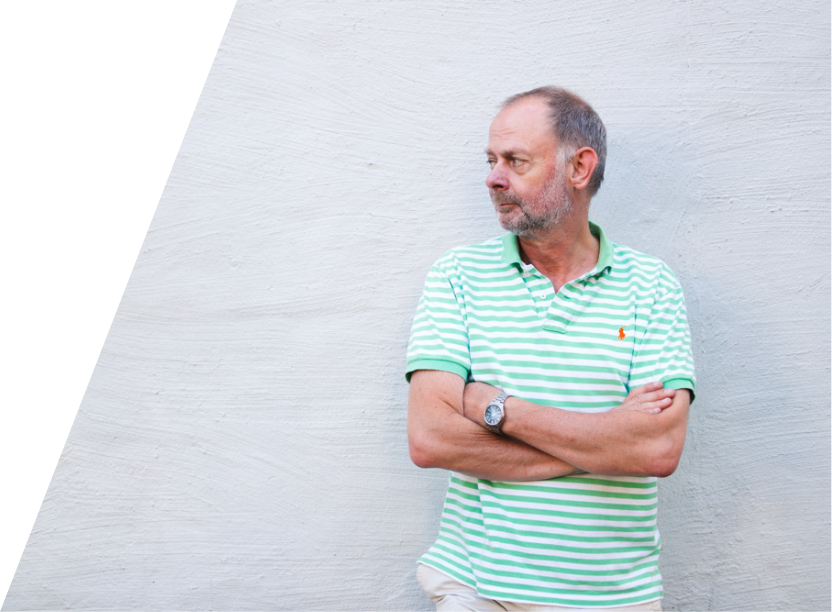
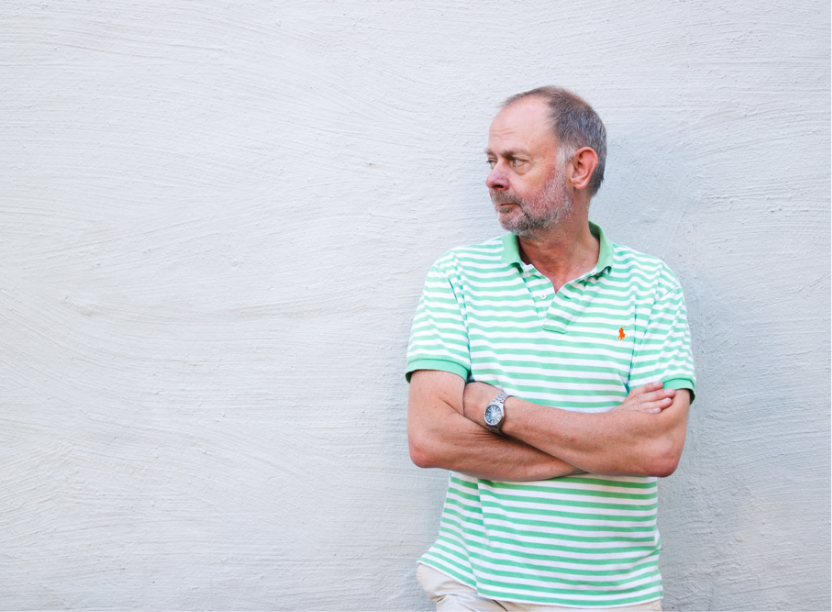
Mobile changes

Changed region(s): [[0.0, 0.0, 0.2812, 0.9935]]

diff --git a/src/components/Main.vue b/src/components/Main.vue
@@ -1,23 +1,21 @@
 <template>
   <div class="main">
-    <div class="bg-gradient-cyan-to-turquoise grid-lt py-24 items-center">
-      <div class="flex flex-col gc-2">
-        <h1 class="font-heading font-bold text-4xl lg:text-6xl text-darkcyan mb-8">
-          Vill du ha professionell hjälp med texter?
-        </h1>
-        <p class="font-body text-base lg:text-lg text-darkcyan">
-          Jag heter Pelle och jag gillar att vränga ord, hitta rätt ord och att sätta ihop ord
-          till bra texter, tydlig information och säljande budskap.
-        </p>
-      </div>
+    <div class="bg-gradient-cyan-to-turquoise grid-rows-auto grid-lt py-12 lg:py-24 items-center">
+      <h1 class="hero__header font-heading font-bold text-4xl lg:text-6xl text-darkcyan mb-8">
+        Vill du ha professionell hjälp med texter?
+      </h1>
+      <p class="hero__paragraph font-body text-base lg:text-lg text-darkcyan pr-8 lg:pr-0">
+        Jag heter Pelle och jag gillar att vränga ord, hitta rätt ord och att sätta ihop ord
+        till bra texter, tydlig information och säljande budskap.
+      </p>
       <img
         src="@/assets/images/typewriter.svg"
-        class="pl-24 h-full gc-3"
+        class="hero__image lg:pl-24 h-full"
         alt="typewriter"
       >
     </div>
     <div class="grid-lt items-center">
-      <div class="flex flex-col gc-2 py-3">
+      <div class="flex flex-col who__text py-12 lg:py-24">
         <h1 class="font-heading font-bold text-2xl lg:text-4xl text-darkcyan mb-8">
           Vem är jag?
         </h1>
@@ -28,58 +26,59 @@
         </p>
       </div>
       <img
-        src="@/assets/images/pelle.png"
-        class="p-4 gc-3-e"
+        :src="isMobile ? require('@/assets/images/pelle.png')
+          : require('@/assets/images/pelle-slanted.png')"
+        class="p-3 lg:p-4 who__image"
         alt="pelle"
       >
     </div>
-    <div class="bg-pink grid-rt items-center py-24">
-      <div class="gc-2 flex flex-col pr-48">
-        <div class="flex">
+    <div class="bg-pink grid-rt items-center py-12 lg:py-24">
+      <div class="what__image flex flex-col pr-8 md:pr-12 lg:pr-24 max-w-xs">
+        <div class="flex flex-col lg:flex-row items-center">
           <img
             src="@/assets/images/presentation.svg"
-            class="w-2/5 m-6 pl-6"
+            class="w-20 lg:w-2/5 lg:m-6 pl-6"
             alt="presentation"
           >
           <img
             src="@/assets/images/palm.svg"
-            class="w-2/5 m-6 pt-8"
+            class="w-20 lg:w-2/5 lg:m-6 pr-4 lg:pr-0 pt-8"
             alt="palm"
           >
         </div>
-        <div class="flex">
+        <div class="flex flex-col lg:flex-row pt-8 lg:pt-0 items-center">
           <img
             src="@/assets/images/press.svg"
-            class="w-2/5 m-6 pb-10"
+            class="w-20 lg:w-2/5 lg:m-6 pb-8 lg:pb-10 px-2 lg:px-0"
             alt="press"
           >
           <img
             src="@/assets/images/book.svg"
-            class="w-2/5 m-6 pr-4"
+            class="w-20 lg:w-2/5 lg:m-6 pr-4"
             alt="book"
           >
         </div>
       </div>
-      <div class="flex flex-col gc-3 py-3">
-        <h1 class="font-heading font-bold text-2xl lg:text-4xl text-darkpurple mb-8">
-          Vad kan jag skriva?
-        </h1>
-        <p class="font-body text-base lg:text-lg text-darkerpurple">
-          Ja, egentligen allt! Jag är en lyhörd skribent, och jag lyssnar på dig, vad du vill ha och
-          hjälper dig att uppnå ditt mål. Det kan handla om allt ifrån researtiklar,
-          företagspresentationer och texter till webbplatser till annonser, pressreleaser och
-          nyhetsbrev eller att korrekturläsa en bok. Jag har Öhrnkoll på ord helt enkelt!
-        </p>
-      </div>
+      <h1 class="what__header font-heading font-bold text-2xl lg:text-4xl text-darkpurple mb-8">
+        Vad kan jag skriva?
+      </h1>
+      <p class="what__paragraph font-body text-base lg:text-lg text-darkerpurple">
+        Ja, egentligen allt! Jag är en lyhörd skribent, och jag lyssnar på dig, vad du vill ha och
+        hjälper dig att uppnå ditt mål. Det kan handla om allt ifrån researtiklar,
+        företagspresentationer och texter till webbplatser till annonser, pressreleaser och
+        nyhetsbrev eller att korrekturläsa en bok. Jag har Öhrnkoll på ord helt enkelt!
+      </p>
     </div>
-    <div class="border-b-4 border-darkcyan grid-lt py-24 items-start">
-      <div class="flex flex-col gc-2  pr-24">
+
+    <div class="border-b-4 border-darkcyan grid-lt py-12 lg:py-24 items-start">
+      <div class="contact__text flex flex-col md:pr-12 lg:pr-24">
         <h1 class="font-heading font-bold text-2xl lg:text-4xl text-darkcyan mb-8">
           Hur når du mig?
         </h1>
         <p class="font-body text-base lg:text-lg text-darkcyan">
-          I formuläret här bredvid kan du skriva ett meddelande till mig, så hör
-          jag av mig inom kort. Du kan också skicka ett mail eller slå en signal.
+          I formuläret här {{ isMobile ? 'nedanför' : 'bredvid' }}
+          kan du skriva ett meddelande till mig, så hör jag av mig
+          inom kort. Du kan också skicka ett mail eller slå en signal.
           <br>Pelle Öhrn
           <br><span id="js-contact-phone" />
           <br><span id="js-contact-email" />
@@ -88,12 +87,12 @@
 
       <form
         id="js-contact-form"
-        class="w-full max-w-lg gc-3 flex flex-col items-center"
+        class="contact__form w-full lg:max-w-lg flex flex-col items-center mt-8 lg:mt-0"
         :action="`//formspree.io/${mail}`"
         method="POST"
       >
-        <div class="flex flex-wrap -mx-3 mb-6">
-          <div class="w-full md:w-1/2 px-3 mb-6 md:mb-0">
+        <div class="flex flex-wrap -mx-3 mb-6 w-full">
+          <div class="w-full md:w-1/2 mb-6 md:mb-0 md:pr-2 lg:pr-3">
             <label
               class="block tracking-wide font-body text-darkcyan text-sm font-bold mb-2"
               for="name"
@@ -110,7 +109,7 @@
               required
             >
           </div>
-          <div class="w-full md:w-1/2 px-3">
+          <div class="w-full md:w-1/2 md:pl-2 lg:pl-3">
             <label
               class="block tracking-wide font-body text-darkcyan text-sm font-bold mb-2"
               for="email"
@@ -140,7 +139,7 @@
               id="message"
               :class="['font-body appearance-none block w-full text-darkcyan border-2',
                        'border-gray-300 rounded py-3 px-4 mb-3 leading-tight focus:outline-none',
-                       'focus:border-turquoise trans']"
+                       'focus:border-turquoise trans h-40 lg:h-auto']"
               type="password"
               placeholder="Hej! Ses över en kopp kaffe?"
               required
@@ -191,7 +190,7 @@
         </div>
       </div>
       <p
-        :class="['font-body text-sm md:text-base text-gray-600 italic w-2/5',
+        :class="['font-body text-sm md:text-base text-gray-600 italic w-4/5 lg:w-2/5',
                  'max-w-5xl m-auto text-center pt-16']"
       >
         Idag är jag med i BolagsBolaget som tar hand om sociala avgifter,
@@ -201,7 +200,7 @@
         och fakturerar sen månadsvis eller ett engångsbelopp.
       </p>
       <p
-        :class="['font-body text-sm md:text-base text-gray-600 italic w-2/5',
+        :class="['font-body text-sm md:text-base text-gray-600 italic w-4/5 w-2/5',
                  'max-w-5xl m-auto text-center py-10']"
       >
         Ikoner CC-BY av The Noun Project: David (palm), Ladalle CS (press), monkik (bok)
@@ -219,19 +218,29 @@ export default {
       msg: 'Välkommen till Pelles sida',
       email: `${'skri'}${'v@'}pelleohrn.se`,
       phone: `${'076-833'}${' 64'} 41`,
+      windowWidth: window.innerWidth,
+      mediumBreakpoint: '768',
     };
+  },
+  computed: {
+    isMobile() {
+      return this.windowWidth < this.mediumBreakpoint;
+    },
   },
   mounted() {
     const contactForm = document.getElementById('js-contact-form');
     contactForm.setAttribute('action', this.email);
     document.getElementById('js-contact-phone').innerHTML = this.email;
     document.getElementById('js-contact-email').innerHTML = this.phone;
+    window.onresize = () => {
+      this.windowWidth = window.innerWidth;
+    };
   },
 };
 </script>
 
 <style scoped>
-@import url('https://fonts.googleapis.com/css?family=Merriweather+Sans:400,700,800|Open+Sans|Gochi+Hand&display=swap');
+@import url('https://fonts.googleapis.com/css?family=Merriweather+Sans:400,700,800|Open+Sans&display=swap');
 
 .bg-gradient-cyan-to-turquoise {
   background: linear-gradient(285deg, #A4E9D7, #73CFD4);
@@ -251,6 +260,10 @@ export default {
   grid-template-columns: 10% 2fr 3fr 10%;
 }
 
+.grid-rows-auto {
+  grid-auto-rows: auto;
+}
+
 .gc-2 {
   grid-column: 2;
 }
@@ -263,6 +276,22 @@ export default {
   grid-column: 3/end;
 }
 
+.gc-2-4 {
+  grid-column: 2/4;
+}
+
+.gr-1 {
+  grid-row: 1;
+}
+
+.gr-2 {
+  grid-row: 2;
+}
+
+.gr-1-3 {
+  grid-row: 1/3;
+}
+
 .border-frame{
   border-top-color: #b89675;
   border-right-color:  #7b654f;
@@ -273,4 +302,69 @@ export default {
 .rotate-45{
   transform: rotate(45deg);
 }
+
+/* BEM for some grid stuff */
+
+.hero__header {
+  grid-row: 1;
+  grid-column: 2/4;
+}
+.hero__image {
+  grid-row: 2;
+  grid-column: 3;
+}
+.hero__paragraph {
+  grid-row: 2;
+  grid-column: 2;
+}
+.who__text {
+  grid-column: 2/4;
+}
+.who__image {
+  grid-column: 1/end;
+}
+.what__header {
+  grid-row: 1;
+  grid-column: 3;
+}
+.what__paragraph {
+  grid-row: 2;
+  grid-column: 3;
+}
+.what__image {
+  grid-row: 1/3;
+  grid-column: 2;
+}
+.contact__text {
+  grid-column: 2/4;
+}
+.contact__form {
+  grid-column: 2/4;
+  grid-row: 2;
+}
+@media (min-width: 768px) {
+  .hero__header {
+    grid-column: 2;
+  }
+  .hero__image {
+    grid-row: 1/3;
+  }
+  .who__text {
+    grid-column: 2;
+  }
+  .who__image {
+    grid-column: 3/end;
+  }
+  .what__paragraph {
+    grid-column: 3;
+  }
+  .contact__text {
+    grid-column: 2;
+  }
+  .contact__form {
+    grid-column: 3;
+    grid-row: 1;
+  }
+}
+
 </style>

diff --git a/tailwind.js b/tailwind.js
@@ -16,7 +16,6 @@ module.exports = {
       fontFamily: {
         'heading': ['Merriweather Sans', 'sans-serif'],
         'body': ['Open Sans', 'sans-serif'],
-        'hand': ['Gochi Hand', 'cursive'],
       },
     }
   },
